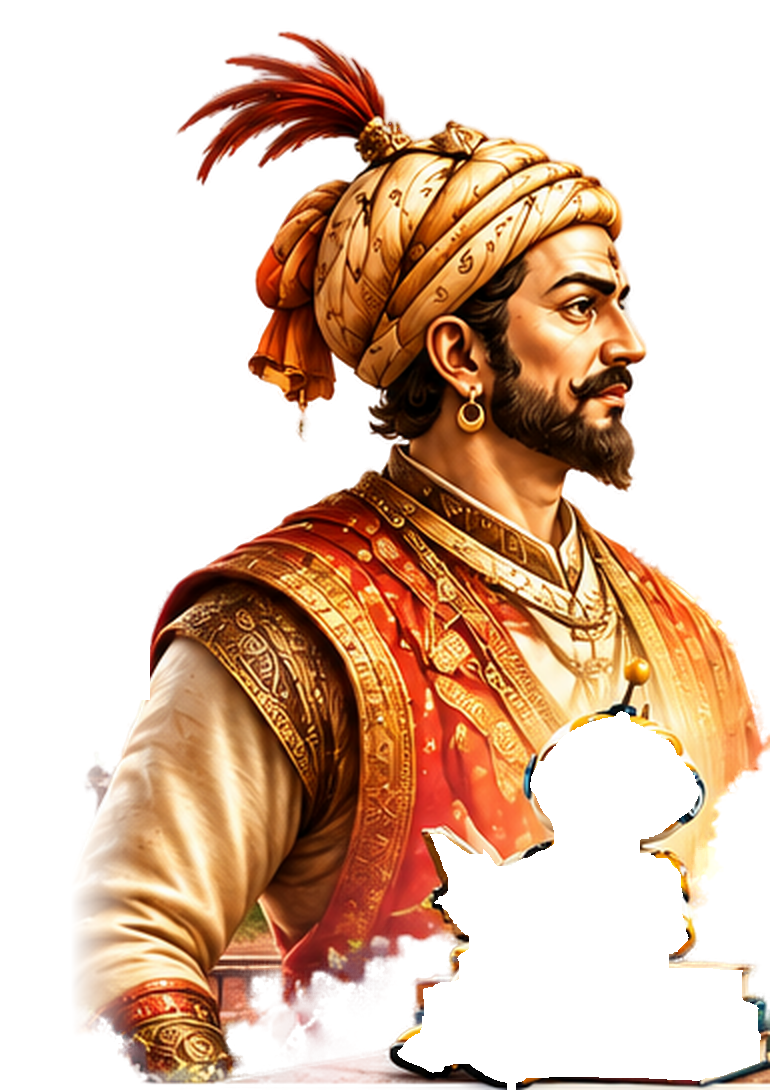
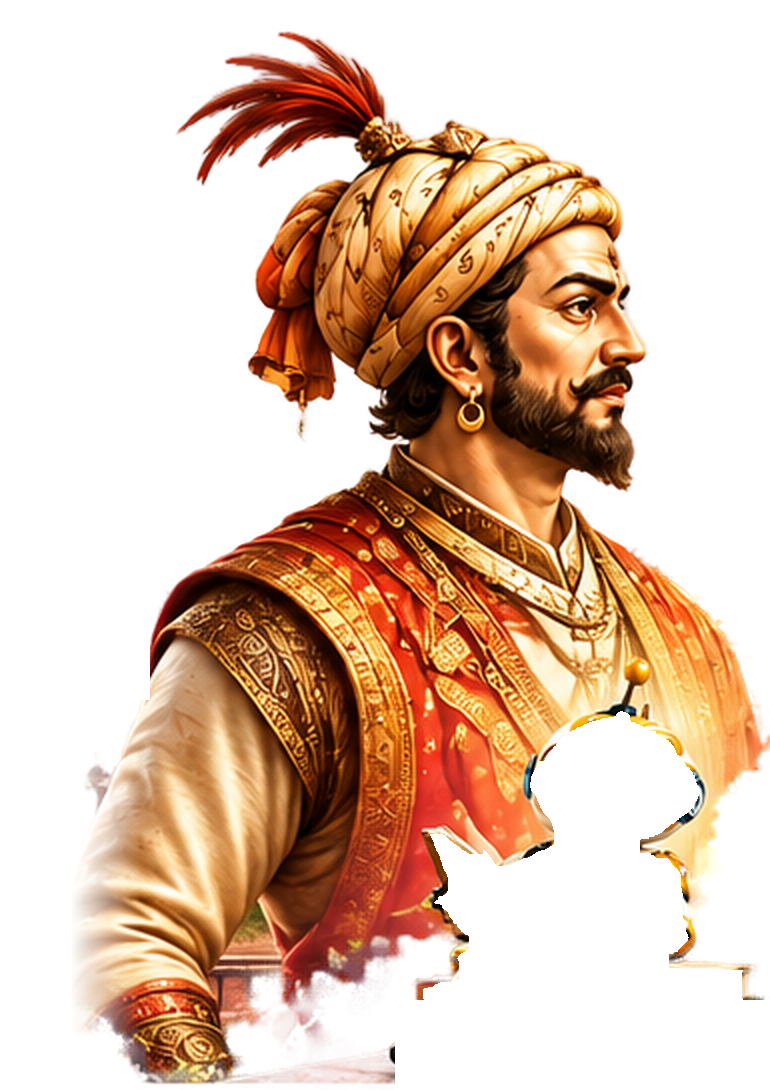
Homepage hero v13 (local): mascot raised for bottom margin, portrait bottom residue cleaned

Changed region(s): [[0.4987, 0.9046, 1.0, 1.0]]

diff --git a/frontend/src/pages/Home.css b/frontend/src/pages/Home.css
@@ -640,7 +640,7 @@
 
 .hb-fig-bot {
   left: 45.45%;
-  top: 61.47%;
+  top: 59.8%;
   width: 52%;
 }
 
